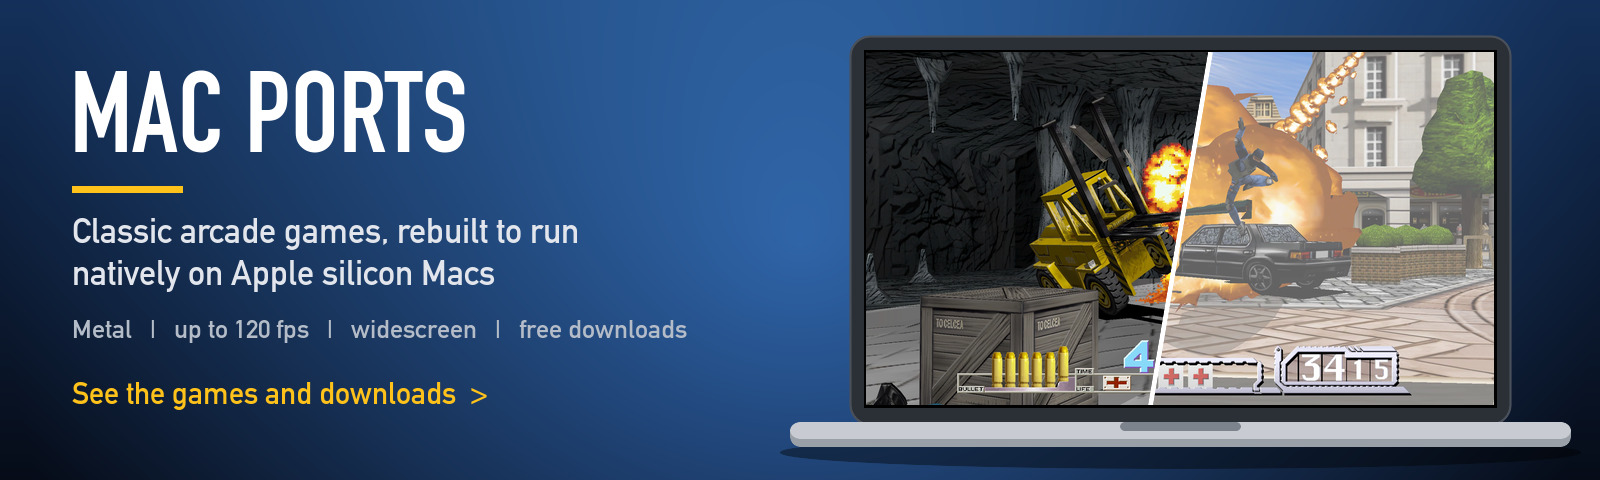
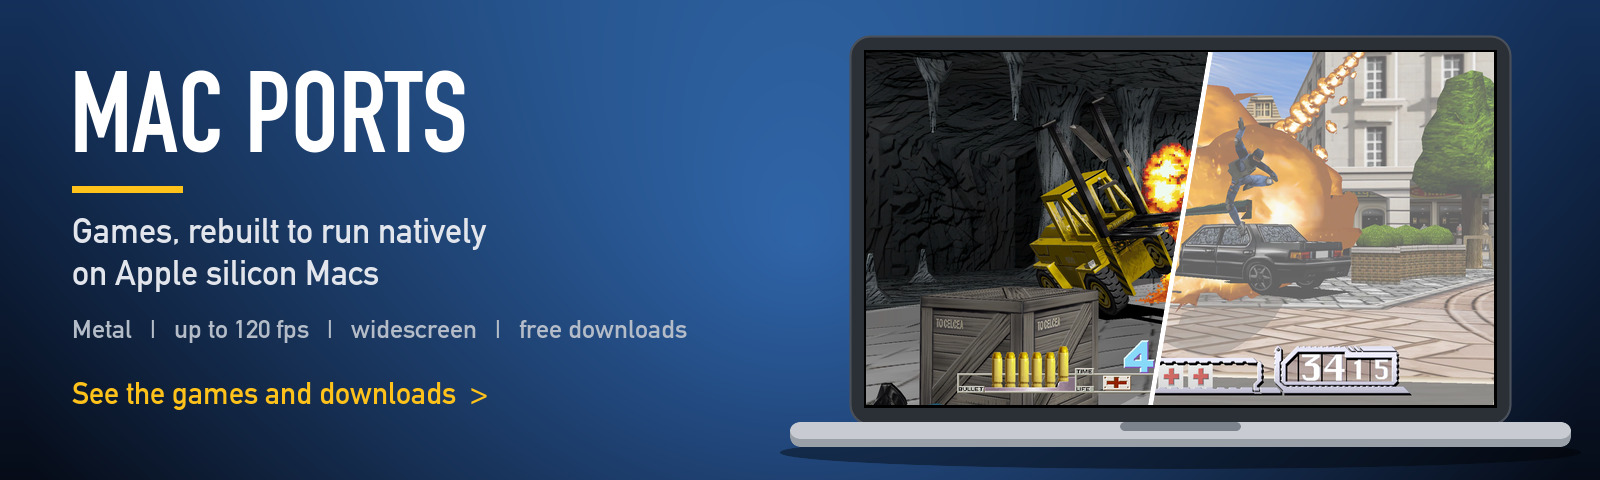
Any game, not only arcade classics

Changed region(s): [[0.0312, 0.4375, 0.375, 0.5938]]

diff --git a/README.md b/README.md
@@ -1,8 +1,8 @@
-<p align="center"><img src="images/banner.jpg" alt="Mac Ports: classic arcade games, rebuilt to run natively on Apple silicon Macs" width="100%"></p>
+<p align="center"><img src="images/banner.jpg" alt="Mac Ports: games, rebuilt to run natively on Apple silicon Macs" width="100%"></p>
 
-Classic arcade games, rebuilt as native apps for Macs with Apple silicon. Nothing is emulated: each game's original code is translated into a Mac program and drawn with Metal, at up to 120 frames per second, in widescreen, with mouse controls.
+Games, rebuilt as native apps for Macs with Apple silicon. Nothing is emulated: each game runs as a real Mac program, drawn with Metal. Every game page lists what's new on the Mac.
 
-Every download is free. The apps don't include the games themselves: you bring your own copy of each arcade game, and the app asks for it the first time it opens.
+Every download is free. The apps don't include the games themselves: you bring your own copy of each game, and the app asks for it the first time it opens.
 
 ## The games
 
